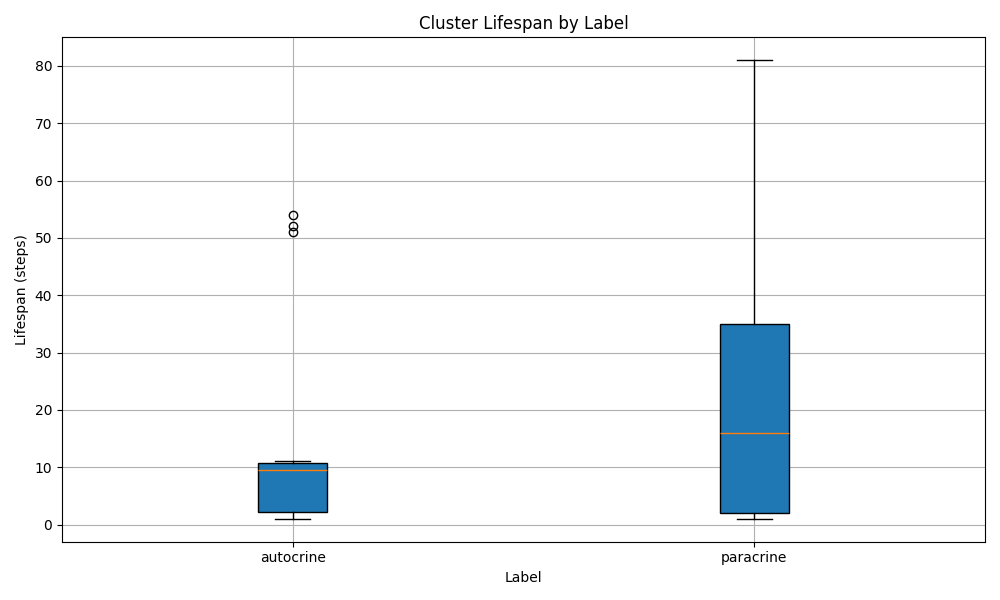
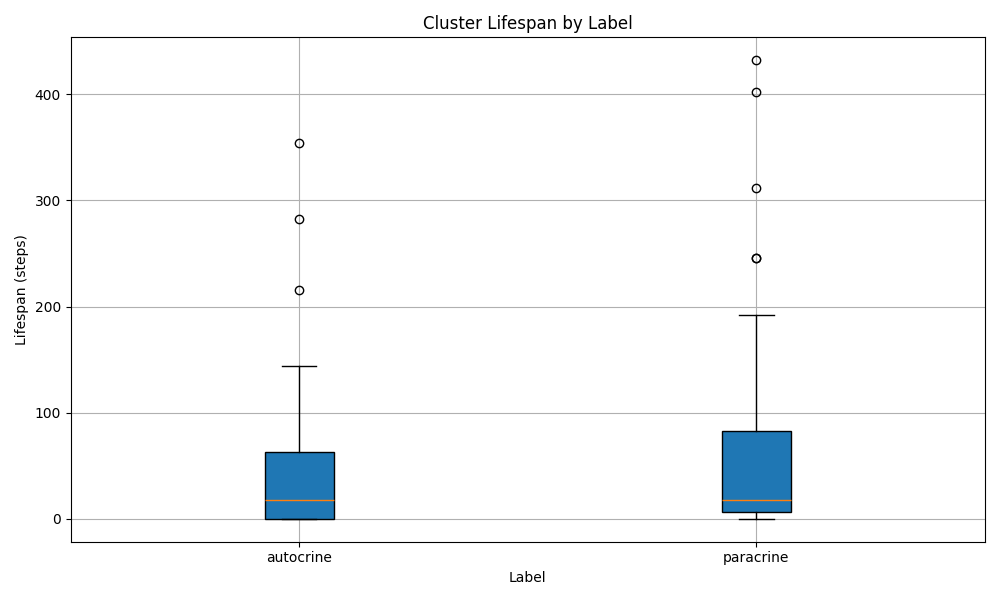
plot_cluster_lifespan関数の縦軸をステップから時間へ変更。例画像も修正

diff --git a/analysis/plot_cluster_lifespan.py b/analysis/plot_cluster_lifespan.py
@@ -2,14 +2,15 @@ import matplotlib.pyplot as plt
 from collections import defaultdict
 
 from modules.timeseries import analyze_timeseries
-from utils.common_utils import get_sorted_output_xml_files
+from utils.common_utils import get_sorted_output_xml_files, build_step_to_time
 
 
-def plot_cluster_lifespan(step_clusters_with_global_ids):
+def plot_cluster_lifespan(step_clusters_with_global_ids, step_to_time=None):
     """クラスタの寿命（存続ステップ数）をラベルごとに集計・可視化
 
     Args:
         step_clusters_with_global_ids (dict): {step: DataFrame}, 各DataFrameに 'global_cluster_ID' 列がある前提
+        step_to_time (dict): {step: 時間値} ステップ番号と時間の対応辞書
     """
     # クラスタごとに出現ステップを記録
     cluster_lifespan = defaultdict(list)  # {label: [lifespan, ...]}
@@ -25,12 +26,18 @@ def plot_cluster_lifespan(step_clusters_with_global_ids):
 
     for label, gid_dict in cluster_steps.items():
         for gid, steps in gid_dict.items():
-            lifespan = max(steps) - min(steps) + 1  # 存続ステップ数
-            cluster_lifespan[label].append(lifespan)
+            if step_to_time:
+                times = [step_to_time[s] for s in steps if s in step_to_time]
+                if times:
+                    lifespan = max(times) - min(times)  # 存続時間
+                    cluster_lifespan[label].append(lifespan)
+            else:
+                lifespan = max(steps) - min(steps)  # 存続ステップ数
+                cluster_lifespan[label].append(lifespan)
 
     # 可視化
     labels = sorted(cluster_lifespan.keys())
-    data = [cluster_lifespan[label] for label in labels]
+    data = [cluster_lifespan[label] for label in labels if cluster_lifespan[label]]
 
     plt.figure(figsize=(10, 6))
     plt.boxplot(data, labels=labels, patch_artist=True)
@@ -58,5 +65,8 @@ if __name__ == "__main__":
 
     step_clusters_with_global_ids = analyze_timeseries(output_xml_list, step_interval)
 
+    # ステップから時間へのマッピングを構築
+    step_to_time = build_step_to_time(output_xml_list, dir_path)
+
     # 結果のplot
-    plot_cluster_lifespan(step_clusters_with_global_ids)
+    plot_cluster_lifespan(step_clusters_with_global_ids, step_to_time)
